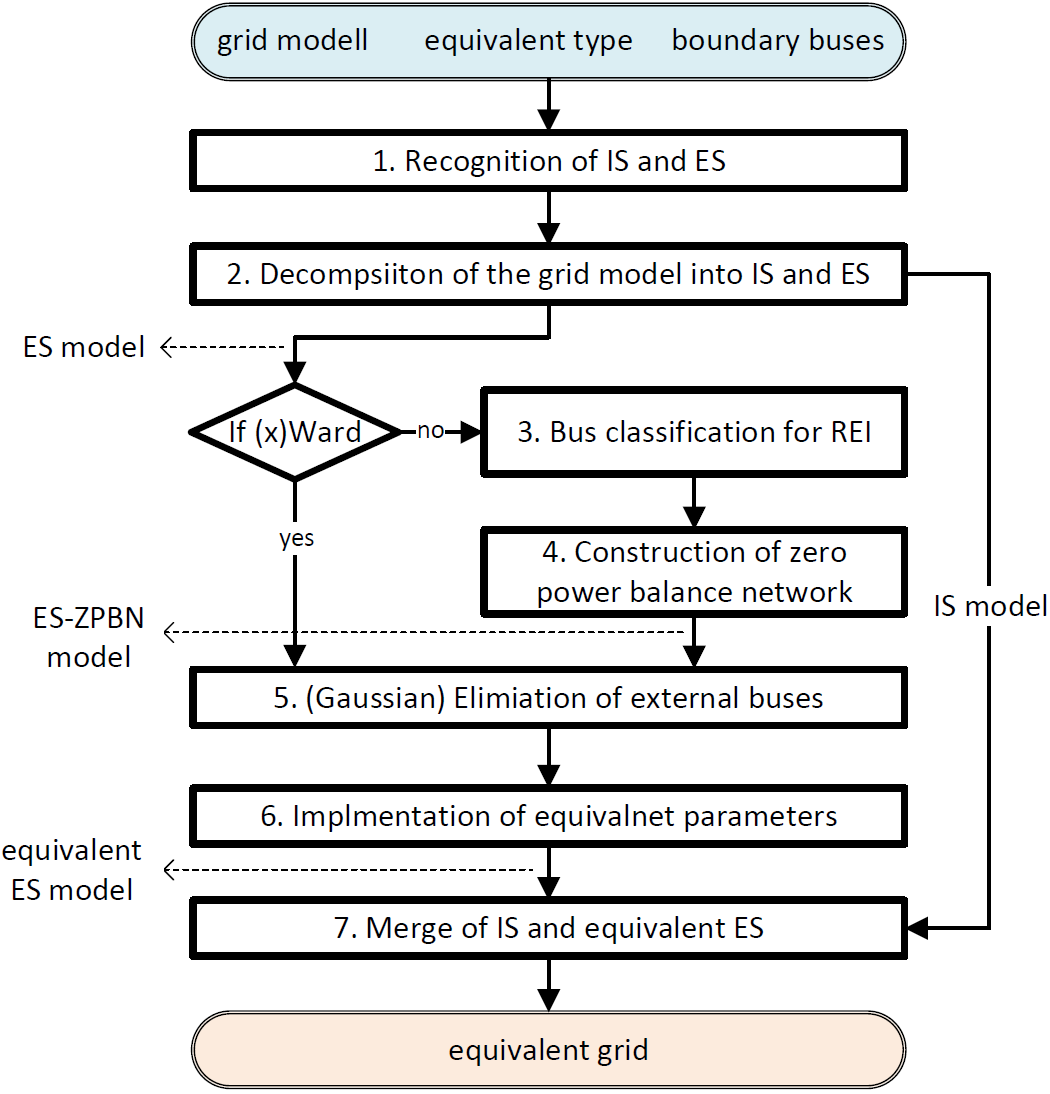
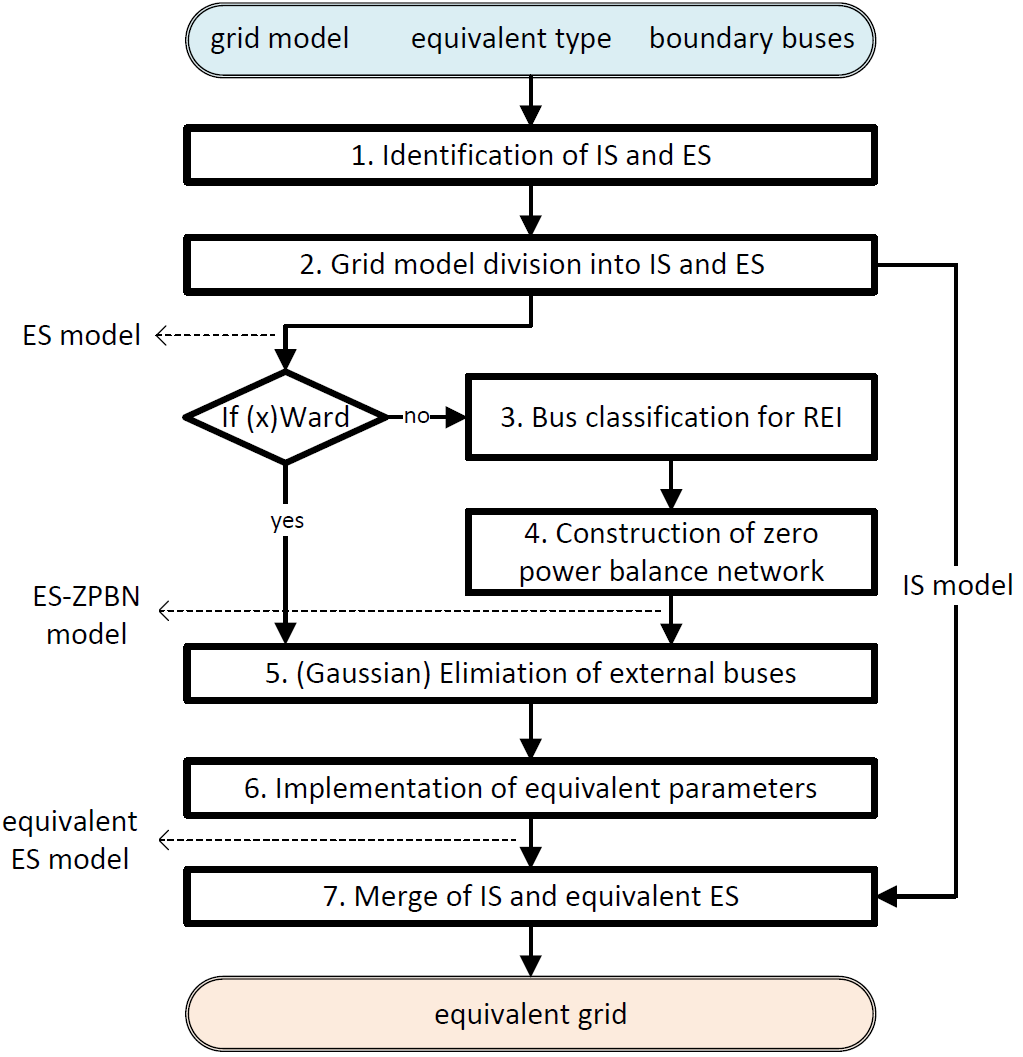
improved doc

diff --git a/pandapower/grid_equivalents/get_equivalent.py b/pandapower/grid_equivalents/get_equivalent.py
@@ -46,89 +46,88 @@ def get_equivalent(net, eq_type, boundary_buses, internal_buses,
 
         - despite 'adapt_va_degree', va_degree at the slack bus showed deviations within large grids
 
-        - with large, real grids small deviations in the power flow results occured, in small grids
-        the results fit perfectly
+        - with large, real grids small deviations in the power flow results occured, in small grids \
+            the results fit perfectly
 
     INPUT:
-        **net** - The pandapower network including power flow results. Will
-                not be changed during this function.
+        **net** - The pandapower network including power flow results will not be changed during this function.
 
         **eq_type** (string) - type of the eqvalent network
 
             The following methods are available:
 
-                - "rei": The idea of rei equivalent is to aggregate the power
-                        and current injection of the external buses to one or
-                        more fictitious radial, equivalent and independent
-                        (rei) nodes. There are three types of the rei-node in
-                        this routine, i.e. the reserved load, the reserved sgen
-                        and the reserved gen (also ext_grid). According to the
-                        demand, these elements (load, sgen and gen) are
-                        considered in the function "_create_net_zpbn"
+                - "rei": The idea of rei equivalent is to aggregate the power \
+                        and current injection of the external buses to one or \
+                        more fictitious radial, equivalent and independent \
+                        (rei) nodes. There are three types of the rei-node in \
+                        this routine, i.e. the reserved load, the reserved sgen \
+                        and the reserved gen (also ext_grid). According to the \
+                        demand, these elements (load, sgen and gen) are \
+                        considered in the function "_create_net_zpbn" \
                         integrated or separately.
 
-                - "ward": The ward-type equivalent represents the external
-                        network with some equivalent impedance, shunts and
-                        power injections at boundary buses. The equivalent
-                        power injections represent the power of the elements
-                        (load, sgen and gen), which are removed by the
+                - "ward": The ward-type equivalent represents the external \
+                        network with some equivalent impedance, shunts and \
+                        power injections at boundary buses. The equivalent \
+                        power injections represent the power of the elements \
+                        (load, sgen and gen), which are removed by the \
                         equivalent calculation.
 
-                - "xward": The xward equivalent is an extended variation of
-                        the ward equivalent. Addition to the
-                        ward-representation, a fictitious PV node (generator)
-                        is added with zero active power injection at every
-                        boundary bus. The voltage of the PV node is set
+                - "xward": The xward equivalent is an extended variation of \
+                        the ward equivalent. Addition to the \
+                        ward-representation, a fictitious PV node (generator) \
+                        is added with zero active power injection at every \
+                        boundary bus. The voltage of the PV node is set \
                         according to the boundary bus voltage.
 
-                ward/xward has two mothods to develop an equivalent circuits,
-                i.e. the injection method and the admittance method. In the
-                admittance method, all the bus power injections in the external
-                networks are converted into shunt admittance before network
-                equivalent. That is the only difference between these two
-                methods. With the help of the function "adapt_net", these
+                ward/xward has two mothods to develop an equivalent circuits, \
+                i.e. the injection method and the admittance method. In the \
+                admittance method, all the bus power injections in the external \
+                networks are converted into shunt admittance before network \
+                equivalent. That is the only difference between these two \
+                methods. With the help of the function "adapt_net", these \
                 methods are configurable.
 
-        **boundary_buses** (iterable) - list of boundary bus indices, by which
-            the original network are divided into two networks, i.e. an
+        **boundary_buses** (iterable) - list of boundary bus indices, by which \
+            the original network are divided into two networks, i.e. an \
             internal network and an external network.
 
-        **internal_buses** (iterable) - list of bus indices, which are within
-            the internal network. The program will add buses which are
-            connected to this list of internal buses without passing boundary
-            buses. If 'internal_buses' is an empty list or None, the whole
+        **internal_buses** (iterable) - list of bus indices, which are within \
+            the internal network. The program will add buses which are \
+            connected to this list of internal buses without passing boundary \
+            buses. If 'internal_buses' is an empty list or None, the whole \
             grid is treated as external network.
 
     OPTIONAL:  
         **return_internal** (bool, True) - Reservation of the internal network
 
-             If True, the internal network is reserved in the final equivalent
+             If True, the internal network is reserved in the final equivalent \
              network; otherwise only the external network is the output.
-             
+
         **show_computing_time** (bool, False) - show computing time of each step
 
         **ward_type** (str, "ward_injection") - Type of ward and xward
 
-            ward and xward proposed two mothods called the Ward Injection
-            method and the Ward Admittance method to develop equivalent
-            circuits. The only difference between these methods is that in
-            the Ward Admittance method, all bus power in the external networks
+            ward and xward proposed two mothods called the Ward Injection \
+            method and the Ward Admittance method to develop equivalent \
+            circuits. The only difference between these methods is that in \
+            the Ward Admittance method, all bus power in the external networks \
             are converted into shunt admittances before network equivalent.
 
-        **adapt_va_degree** (bool, None) - if True, in add_ext_grids_to_boundaries(), the va_degree
-            of the additional ext_grids (if needed) at the boundary buses will be increased or
+        **adapt_va_degree** (bool, None) - if True, in add_ext_grids_to_boundaries(), the va_degree \
+            of the additional ext_grids (if needed) at the boundary buses will be increased or \
             decreased to values that minimize the difference to the given res_bus.va_degree values.
 
-        **allow_net_change_for_convergence** (bool, False) - if the net doesn't converge at the
-            first internal power flow, which is in add_ext_grids_to_boundaries(), and this parameter is
+        **allow_net_change_for_convergence** (bool, False) - if the net doesn't converge at the \
+            first internal power flow, which is in add_ext_grids_to_boundaries(), and this parameter is \
             True, the code tests if changes to unusual impedance values solve the divergence issue.
 
-        **calculate_voltage_angles** (bool, True) - parameter passed to internal runpp() runs
+        **calculate_voltage_angles** (bool, True) - parameter passed to internal runpp() runs.
         
-        **retain_original_internal_indices** (bool, False) - if True, the element indices in 
+        **retain_original_internal_indices** (bool, False) - if True, the element indices in \
             the internal net are retained; otherwise the indices will be reordered from 0. 
 
-        ****kwargs** - key word arguments, such as sgen_separate, load_separate, gen_separate,
+        ****kwargs** - key word arguments, such as sgen_separate, load_separate, gen_separate, \
         group_name.
 
     OUTPUT:

diff --git a/doc/gridequivalent/gridequivalent_example.rst b/doc/gridequivalent/gridequivalent_example.rst
@@ -4,12 +4,12 @@
 Grid Equivalent Example
 #############################
 
-Here is ein example of what you can do:
+Here is an example of what you can do:
 
 Create Example Network
 --------------------------------------------------
 
-First, we create a example network.
+First, we create an example network.
 
 .. code:: python
 
@@ -23,7 +23,7 @@ First, we create a example network.
     
 Define Grid Areas
 --------------------------------------------------
-The created network is shown below. Assuming that, it is divided into two subsystems. The buses (red) [0, 3, 4, 8] belong to the internal subsystem, which should be remained, and the external subsystem consists of buses (green) [1, 2, 5, 6, 7] that are going to be reduced. The boundary buses are [4, 8] belonging to the internal subsystem.
+The created network is shown below. Assuming that the buses (red) [0, 3, 4, 8] belong to the internal subsystem which should be remained, and the external subsystem consists of buses (green) [1, 2, 5, 6, 7] that are going to be reduced. The boundary buses [4, 8] are belonging to the internal subsystem.
 
 .. image:: /pics/gridequivalent/full_case9.png
 	:width: 42em
@@ -31,10 +31,10 @@ The created network is shown below. Assuming that, it is divided into two subsys
 	:align: center
     
 
-Call Grid Equivalent Calculation
+Execute Grid Equivalent Calculation
 --------------------------------------------------
 
-According to the above assumptions, we call the Ward-equivalent calculation. The input variables are:
+According to the above assumptions, input variables for the Ward-equivalent are:
 
 .. code:: python
 
@@ -70,7 +70,7 @@ We can compare the power flow results between the original grid "net" and the re
 	:alt: alternate Text
 	:align: center
 
-It can be seen that the power flow results (**vm_pu**, **va_degree**) of the internal buses [0, 3, 4, 8] in both grids are the same, i.e., the equivalent calculation is successful. The **p_mw** and **q_mvar** values at the boundary buses [4, 8] are different due to the created Ward elements. The figure below shows the reduced grid.
+It can be seen that the power flow results (**vm_pu**, **va_degree**) of the internal buses [0, 3, 4, 8] in both grids are the same (the difference is smaller than :math:`10^{-6}` pu or degree), i.e., the equivalent calculation is successful. The **p_mw** and **q_mvar** values at the boundary buses [4, 8] are different due to the created Ward elements. The figure below shows the reduced grid.
 
 .. image:: /pics/gridequivalent/reduced_case9.png
 	:width: 42em
@@ -96,6 +96,6 @@ We can print the calculated Ward elements using:
 |
  
 .. Note::
-    If you compare the resulting (x)ward-parameters between **pandapower** and **powerfactory**, you will see they are not the same. 
-    This is because in "powerfactory" the admittance matrix is reconstructed according to a voltage sensitivity analysis, 
+    If you compare the resulting (x)ward-parameters between **pandapower** and **PowerFactory**, you will see they are different. 
+    This is because in **PowerFactory** the admittance matrix is reconstructed according to a voltage sensitivity analysis, 
     which is not open-source and leads to the difference. 

diff --git a/doc/gridequivalent/gridequivalent_overview.rst b/doc/gridequivalent/gridequivalent_overview.rst
@@ -4,15 +4,15 @@
 Grid Equivalent Module Overview
 #############################
 
-When calling the function ``get_equivalent()`` the calculation of an equivalent grid is started. During the calaculation process, the internal subsystem (IS) and the external subsystem (ES) are considered separately. The following picture illustrates the flow chart for the implemented equivalent calculations.
+When calling the function ``get_equivalent()`` the calculation of an equivalent grid is started. During the calculation process, the internal subsystem (IS) and the external subsystem (ES) are considered separately. The following figure illustrates the flow chart for the implemented equivalent calculations.
 
-As input variables, the grid model to be reduced with associated **power flow results** (in particular, the voltage values at the boundary buses. You can obtain the power flow results by ``pp.runpp()``, see :ref:`powerflow <powerflow>` for details), the equivalent type (**"ward"**, **"xward"**, or **"rei"**), and the boundary buses with which IS and ES can be identified are required. The procedure can be described as follows:
+As input variables, the grid model to be reduced with associated **power flow results** (in particular, the voltage values at the boundary buses. You can obtain the power flow results by ``pp.runpp()``), the equivalent type (**"ward"**, **"xward"**, or **"rei"**), and the boundary buses with which IS and ES can be identified are required. The procedure can be described as follows:
 
-1. Recognition of IS and ES according to the inputs: all buses are classified into three groups: internal buses, boundary buses, and external buses.
+1. Identification of IS and ES according to the inputs: all buses are classified into three groups: internal buses, boundary buses, and external buses.
 
-2. Decomposition of the grid model into IS model and ES model.
+2. Grid model division into IS model and ES model.
 
-3. (If REI equivalent) Bus classification for REI: the external buses are further identified and classified for the construction of ZPBN.
+3. (If REI equivalent) Bus classification for REI: the external buses are further identified and classified for the construction of the zero power balance network (ZPBN).
 
 4. (If REI equivalent) Construction of ZPBN: in default, loads and generators in ES are considered individually and separately during the aggregation, respectively.
 

diff --git a/doc/gridequivalent.rst b/doc/gridequivalent.rst
@@ -3,7 +3,7 @@
 #############################
 Grid Equivalent
 #############################
-The module is used to reduce an area of the observed pandawpower network. 
+The module is used to reduce an area of the observed pandapower grid. 
 
 Due to limitations of computational resources, data confidentiality, and security-relevant reasons, studies and simulations based on fully detailed grid models are, in practice, not easily achieved. The common solution is using equivalent grids. As the following picture shows, a  power system can be divided into the **internal subsystem** and the **external subsystem**. The former, in which engineers are interested, remains unmodified, and a simple model represents the latter using grid equivalent methods. This module allows for the reduction of the user-defined **external subsystem** by (x)Ward- and REI-equivalent. 
 

diff --git a/doc/gridequivalent/tutorials.rst b/doc/gridequivalent/tutorials.rst
@@ -2,7 +2,7 @@
 Tutorials
 ###################################################
 
-For a hands on tutorial, check out the jupyter notebook tutorials:
+For a hands on tutorial, refer to the jupyter notebook tutorials:
 
 - `get equivalents <https://github.com/e2nIEE/pandapower/blob/develop/tutorials/grid_equivalents.ipynb>`_
 
